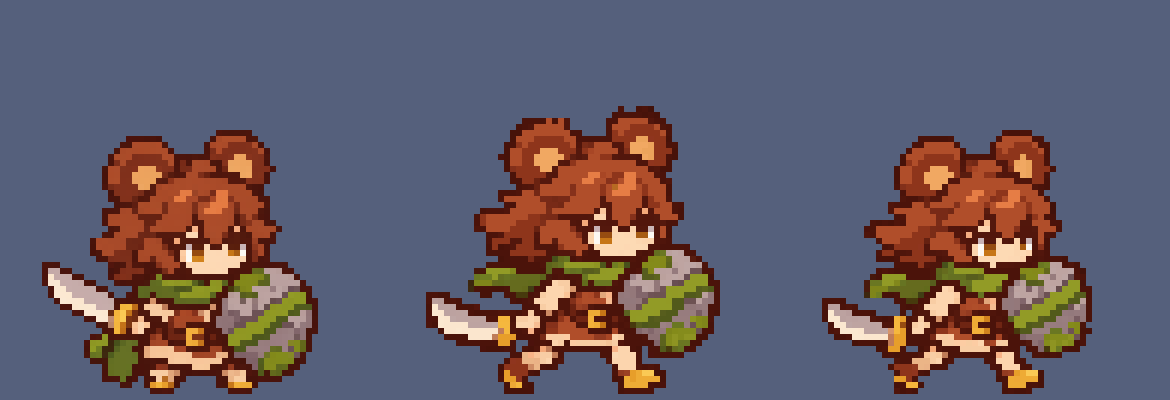
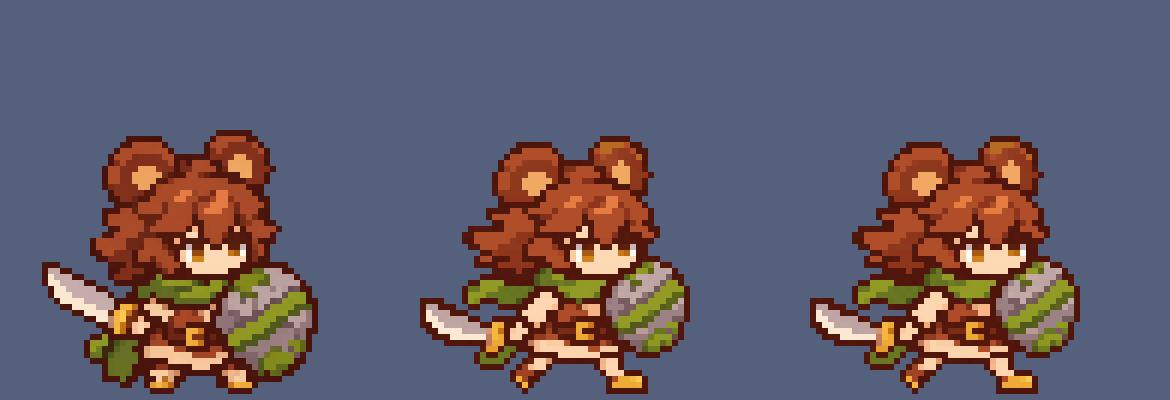
록시 걷기 1번 칸: 다리 길이 지금과 같게

Changed region(s): [[0.3385, 0.27, 0.6154, 0.99], [0.6769, 0.3, 0.9538, 0.99]]

diff --git a/개발일지/2026-11-28/이미지.md b/개발일지/2026-11-28/이미지.md
@@ -219,3 +219,9 @@
 - 한 것: 코덱스 걷기 칸은 다리가 3점 길었음. 다리만 지금 것으로 벌리거나(A: `walk1_v2a.png`) 코덱스 다리를 줄여 붙이는 방법을 해 봤으나 줄인 다리는 뭉개짐. 여러 번 어색해 멈추고 방향을 여쭘.
 - 의도: "다리길이가 길어졌어.;"
 - 그림: img/codex/bearwalk/choose.png
+
+## [디자인] 록시 걷기 1번 칸: 다리 길이 지킴
+- 한 것: 다리 5점을 숫자로 적어 다시 받고 다리 1줄을 빼 지금과 같은 길이로 맞춤(`img/codex/bearwalk/walk1_final.png`). 윗몸은 1점 내려감(딛는 순간).
+- 의도: "움직이는 모습에서 다리길이만 유지하면되잖아."
+- 결과: 확대 비교 확인. 사용자 확인 대기.
+- 그림: img/codex/bearwalk/walk1_final_view.png
